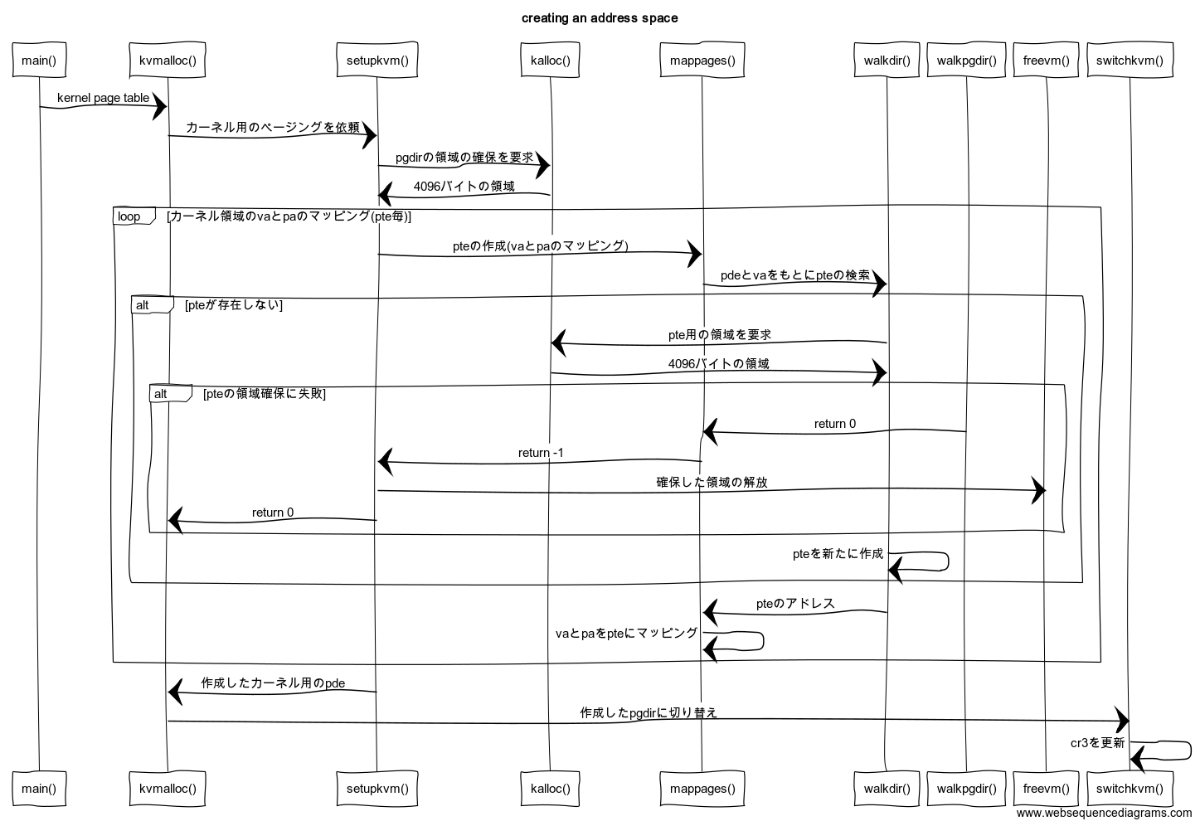
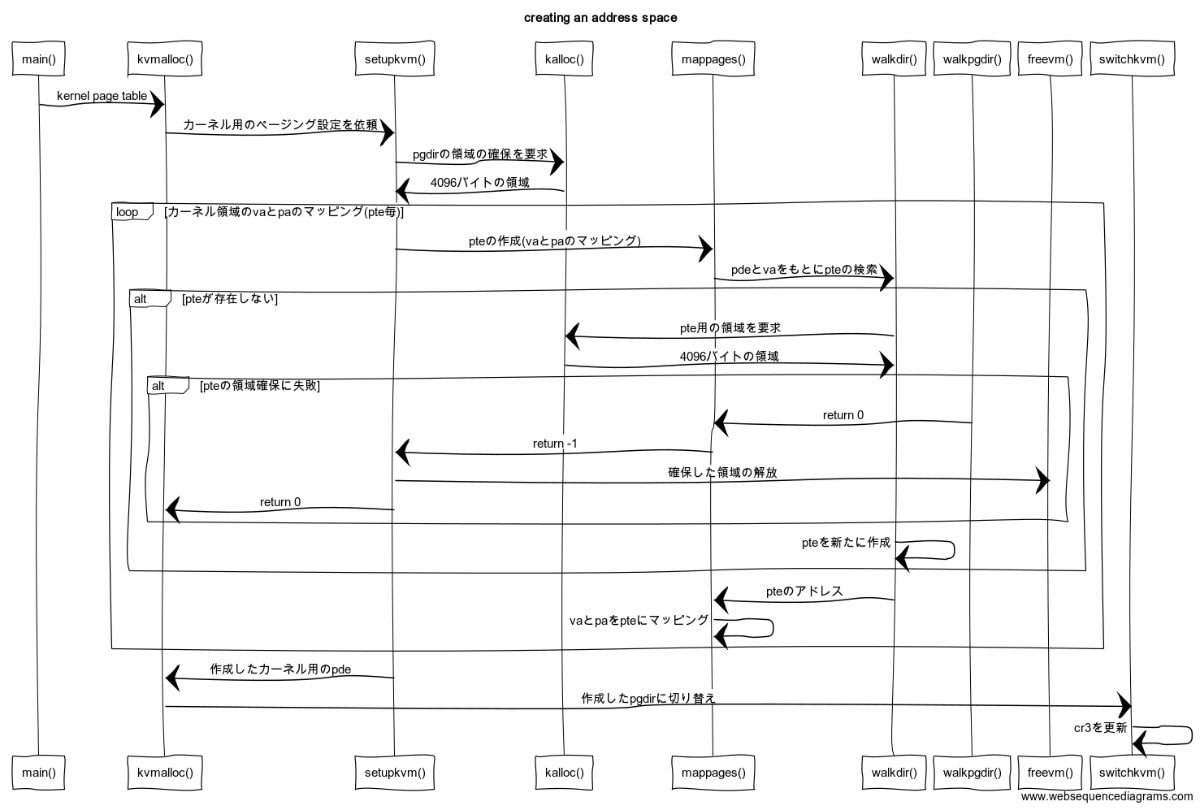
Update.

diff --git a/content/post/xv6_pagetable_1/index.md b/content/post/xv6_pagetable_1/index.md
@@ -1,10 +1,13 @@
 ---
 title: "詳解xv6 Page tables 1"
-date: 2019-03-04T15:45:23+09:00
-draft: true
+date: 2019-03-05T18:35:02+09:00
+tags : [xv6, os]
 ---
 
-# 略語説明
+[詳解xv6の目次]({{< ref "post/xv6_index">}})
+***
+
+# 単語説明
 - PA(Physical Address): 物理アドレス
 - VA(Virtual Address): 仮想アドレス
 
@@ -56,21 +59,48 @@ Page Directory Table         4MB*1024=4GB
 ```
 
 #  Code: creating an address space
-TODO: 軽い解説
+本章ではxv6が作るカーネルのアドレス空間、つまりページングの設定を行うコードの解説です。
+カーネルのアドレス空間のVAとPAは図のようにマッピングしていきます。  
+**本章の解説するコードの目的は図のマッピングを作ることです。**
 
-- Fig2.2のようなマッピングを作る
-- カーネル領域はどのプロセスにもある
+> {{% figure src="memorylayout.png" %}}
+Source: [commentary/textbook](https://pdos.csail.mit.edu/6.828/2018/xv6/book-rev11.pdf)
 
-#### シーケンス図
+どのプロセスにもカーネル用の仮想アドレス空間が設定されています。
+図のように1プロセスには4GBの仮想メモリ空間が割り当てられますが、
+KERNBASE~4GBまではカーネル用の仮想アドレス空間になっています。
+カーネル用のアドレス空間はVAとPAが必ず図のように固定でマッピングされます。
+
+### シーケンス図
 エラー処理等を省いたざっくりとしたシーケンスです。
 今見ている関数はどこから呼ばれるんだっけとなったときに見てもらえればと思います。
-{{% figure src="sequence.png" %}}
+{{% figure src="sequence_withoud_error_handling.png" %}}
 
-#### kvmalloc()
+### main()
+メイン関数
+
+- `main.c`
+
+    ```c
+    14 // Bootstrap processor starts running C code here.
+    15 // Allocate a real stack and switch to it, first
+    16 // doing some setup required for memory allocator to work.
+    17 int
+    18 main(void)
+    19 {
+    20   kinit1(end, P2V(4*1024*1024)); // phys page allocator
+    21   kvmalloc();      // kernel page table
+    ~~~
+    37   mpmain();        // finish this processor's setup
+    38 }
+    ```
+- L21: カーネル用ページテーブルの作成
+
+### kvmalloc()
 カーネル用のページテーブルを作成して作成したページテーブルに切り替える
 
 - 作成するのはページディレクトリエントリを1つのみ  
-- [setupkvm()]({{< ref "#setupkvm">}})はpdeを返すがそれを先頭アドレスとしたpdtとも見れる
+- [setupkvm()]({{< ref "#setupkvm">}})はPDEを返すがそれを先頭アドレスとしたPDTとも見れる
 - `vm.c`  
 
     ```c
@@ -98,12 +128,12 @@ TODO: 軽い解説
     152   lcr3(V2P(kpgdir));   // switch to the kernel page table
     153 }
     ```
-- L152: `cr3`を更新
-    - ページディレクトリの変更、つまりメモリ空間を変える
+- L152: `cr3`レジスタを更新
+    - PDTの変更、つまりメモリ空間を変える
     - `cr3` を別のページディレクトリに切り替える = プロセス空間の切り替えに相当
         - `cr3`が`pde[0]`を指せばおっけ
 
-#### V2P()
+### V2P()
 
 - `memlayout.h`
 
@@ -112,12 +142,12 @@ TODO: 軽い解説
     ~~~
     11 #define V2P(a) (((uint) (a)) - KERNBASE)
     ```
-- カーネルのメモリは決め打ちでわかる
-- > [![Image](https://gyazo.com/c3dbef2734ca29759e6b3c518a638cd5/thumb/1000)](https://gyazo.com/c3dbef2734ca29759e6b3c518a638cd5)
+- L11: カーネルの物理メモリは決め打ちでわかる
+- > {{% figure src="memorylayout_red.png" %}}
 Source: [commentary/textbook](https://pdos.csail.mit.edu/6.828/2018/xv6/book-rev11.pdf) + 赤色書き加え
 
-#### setupkvm()
-カーネルのページテーブルを作成(Fig2-2)
+### setupkvm()
+カーネルのPDEを作成
 
 - `vm.c`
 
@@ -158,6 +188,8 @@ Source: [commentary/textbook](https://pdos.csail.mit.edu/6.828/2018/xv6/book-rev
     136 }
     ```
  
+- L105 - 115: `kmap[]`はカーネル用のページングの設定
+    - メモリレイアウトの図(Fig2.2)と照らし合わせるとわかりやすい
 - L124 - 126: `pgdir`の領域を確保
     - 4096/32 = 128 pte
         - 4エントリしか使用しない(`kmap[]`より)
@@ -184,9 +216,9 @@ Source: [commentary/textbook](https://pdos.csail.mit.edu/6.828/2018/xv6/book-rev
             94   return (char*)r;
             95 }
         ```
-- L129 - 134: `pgdir`を`kmap[]`にあわせてカーネルのページテーブルを作っていく
+- L129 - 134: `pgdir`を`kmap[]`にあわせていく
 
-#### mappages()
+### mappages()
 仮想アドレスと物理アドレスを紐づける
 
 - `vm.c`
@@ -220,7 +252,7 @@ Source: [commentary/textbook](https://pdos.csail.mit.edu/6.828/2018/xv6/book-rev
 - 引数
     - `pgdir`: ページディレクトリテーブルの先頭アドレス
     - `va`: 仮想アドレス
-    - `size`: 確保するサイズ
+    - `size`: マッピングするサイズ
     - `pa`: 物理アドレス
     - `perm`: permission
 - L66 - 67: PGSIZEにそろえる
@@ -239,8 +271,8 @@ Source: [commentary/textbook](https://pdos.csail.mit.edu/6.828/2018/xv6/book-rev
         ```
 - L76 - 77: `PGSIZE`を増やして繰り返す
 
-#### walkpgdir() 
-`va`に対応するページエントリを見つける
+### walkpgdir() 
+`pgdir`の`va`に対応するPTEを見つける
 
 - `vm.c`
 
@@ -270,7 +302,7 @@ Source: [commentary/textbook](https://pdos.csail.mit.edu/6.828/2018/xv6/book-rev
     54   return &pgtab[PTX(va)];
     55 }
     ```
-- L41: ページディレクトリエントリをげっちゅ
+- L41: PDEを取得
     - `mmu.h`
 
         ```c
@@ -291,6 +323,9 @@ Source: [commentary/textbook](https://pdos.csail.mit.edu/6.828/2018/xv6/book-rev
         87 #define PTXSHIFT        12      // offset of PTX in a linear address
         88 #define PDXSHIFT        22      // offset of PDX in a linear address
         ```
+    - L67 - 71: 仮想アドレスの構成
+        - 前半10bitがPDEのインデックス
+        - 次の10bitがPTEのインデックス
     - `pgdir[PDX(va)]`: 該当するPDEを見つける
     - `pgtab[PTX(va)]`: 該当のPTEを見つける
 - L42 - 43: PDEが存在した場合
@@ -304,7 +339,9 @@ Source: [commentary/textbook](https://pdos.csail.mit.edu/6.828/2018/xv6/book-rev
         Source: [０から作るOS開発　ページングその１　ページとPTEとPDE](http://softwaretechnique.jp/OS_Development/kernel_development07.html)
 - L44 - 53: 引数の`alloc`が真ならば新たにページテーブルを作成し`pde`を更新
 
+### まとめ
+{{% figure src="sequence.png" %}}
+
 ---
 コメントや間違いなどがある場合は[Twitter](https://twitter.com/utam0k)に連絡してもらうか
 [Issue](https://github.com/utam0k/utam0k.github.io/issues/1)に書いていただくと助かります。
-また、[Pull Request](https://github.com/utam0k/utam0k.github.io/blob/source/content/post/xv6_pagetable_1/index.md)もお待ちしています。

diff --git a/content/post/xv6_intro/index.md b/content/post/xv6_intro/index.md
@@ -1,18 +1,58 @@
 ---
 title: "詳解xv6 はじめに"
-date: 2019-03-04T15:04:55+09:00
-draft: true
+date: 2019-03-05T18:35:01+09:00
+tags : [xv6, os]
 ---
+[詳解xv6の目次]({{< ref "post/xv6_index">}})
+***
 
 ### はじめに  
-xv6はMITが開発している現代版Unix V6です。  
-x86アーキテクチャで動作するようになっています。  
-お手元のLinuxで簡単に動作させれます。  
-本記事ではその詳細についてMITが公開している[commentary/textbook](https://pdos.csail.mit.edu/6.828/2018/xv6/book-rev11.pdf) 
-を元にソースコードレベルで解説していきます。
+xv6はMITが開発している現代版Unix V6です。
+x86アーキテクチャで動作するようになっています。
+お手元のPCで簡単に動作させれます。
 
-### 読み方  
-以下サンプルです。  
+本記事ではその詳細についてMITが公開している。
+[xv6, a simple, Unix-like teaching operating system](https://pdos.csail.mit.edu/6.828/2018/xv6/book-rev11.pdf)(以下 commentary/textbook)
+を元にソースコードレベルで解説していきます。
+そのため、基本的には[commentary/textbook](https://pdos.csail.mit.edu/6.828/2018/xv6/book-rev11.pdf)に書いてあることを
+要約したり説明を付け足したりした記事になります。
+
+筆者もOS初心者であり、OS入門するために半年前位からxv6のコードリーディングを始めました。
+しかし、やはり初心者には難しい面もありました。
+本記事は筆者がxv6のコードリーディングを始めた時にこういう解説記事があったらうれしかったなという思いで本記事を書いています。
+今からxv6のコードリーディングを始める人の助けになればと思います。
+
+間違った解説をしている可能性も十分にあるためその際は指摘した頂けると幸いです。
+また、筆者はLinux等の実際のOSに詳しいわけではありません。
+Linuxだとこんな風にやってるなどアドバイスを頂けると喜びます。
+コメントや間違いなどがある場合は[Twitter](https://twitter.com/utam0k)に連絡してもらうか
+[Issue](https://github.com/utam0k/utam0k.github.io/issues/1)に書いていただくと助かります。
+
+### xv6の特徴
+- Unix 6vがベース
+- OSの基本的なアイディアが詰まっている
+- ANSI Cで書かれている
+- x86
+- コード量が1万行ないくらい
+
+
+### 書くこと書かないこと
+#### 書くこと
+- xv6のコードの解説
+- x86の仕組み
+- OS特有の用語についての説明
+
+#### 書かないこと
+- なぜその機能がOSに必要なのか   
+ex) ページングはなぜ必要なのか
+- アセンブリやC言語のこと
+
+### 本記事の読み方  
+章のタイトルが日本語なのは本記事の独自解説です。
+英語タイトルの場合は[commentary/textbook](https://pdos.csail.mit.edu/6.828/2018/xv6/book-rev11.pdf)
+にも同じタイトル名があり、その章の解説になります。
+
+以下コード解説のサンプルです。  
 
 - `filename.c`  
 
@@ -31,4 +71,73 @@ x86アーキテクチャで動作するようになっています。
 `L行数`がソースコードの何行目のことかを指しており、右側に解説を書きます。
 `~~~`は省略を表します。
 
+### xv6の動かし方
+筆者はUbuntu 18.04とDebian GNU/Linux 9.4 (stretch)で動かしています。
+他のOSでも基本的には`gcc`と`qemu`があれば動かせれると思います。
+`Makefile`を見ると`Mac OS X`の記述もあるのでコメントアウトしてみるとできるかもしれません。
 
+#### 動かす
+[このサイト](https://gcallah.github.io/OperatingSystems/xv6Install.html)が参考になりそうです。
+
+1. 必要なツールのインストール
+
+    ```
+    $ sudo apt install git nasm build-essential qemu gdb
+    ```
+1. コードをもってくる
+
+    ```
+    $ git clone git://github.com/mit-pdos/xv6-public.git
+    $ cd xv6-public
+    ```
+
+1. Make
+一度動かすと`kill`コマンドで消すしかなさそうです。
+
+    ```
+    $ make qemu     # GUIありの起動
+    $ make qemu-nox # GUIなしの起動
+    ```
+
+#### デバッグ(GDB)
+1. 起動  
+
+    ```
+    $ make qemu-nox-gdb # Booting with gdbserver
+    ```
+1. アタッチ  
+xv6を動かした状態で別でシェルを起動させてgdbを起動させます。
+
+    ```
+    $ cd <path to xv6>
+    $ gdb
+    ```
+gdbで以下のコマンド実行します。
+
+    ```
+    (gdb) source .gdbinit
+    ```
+1. デバッグ  
+僕はよくgdbで変数の値などを見て動かしながらコードを読んでいました。  
+**gdbで試しながらするのは結構おすすめです。**  
+試しに`mkdir`のコマンドを少し覗いてみます。
+gdb側で以下のコマンドを実行します。
+
+    ```
+    (gdb) b sys_mkdir
+    (gdb) layout src
+    (gdb) continue
+    ```
+起動したxv6側で`mkdir`を実行します。
+
+    ```
+    $ mkdir test
+    ```
+
+    するとgdb側で反応があると成功です。
+1. xv6を落とす  
+gdb側でxv6を落とします。
+    
+    ```
+    (gdb) kill
+    ```

diff --git a/content/post/xv6_index/index.md b/content/post/xv6_index/index.md
@@ -1,19 +1,20 @@
 ---
 title: "教育版UNIX v6解説 ~詳解xv6~"
 subtitle: "詳解xv6 目次"
-date: 2019-03-04T15:04:55+09:00
-draft: true
+date: 2019-03-05T18:35:00+09:00
+tags : [xv6, os]
 ---
 
 ### はじめに
 本記事はMITのOSの授業で使われているxv6の解説をコードレベルでする記事です。  
-xv6はUNIX v6をベースとし、x86やC99で動くように再実装されたOSです。
+xv6はUNIX v6をベースとし、x86で動くようにANSI Cで再実装されたOSです。
 
 [もっとはじめに]({{<ref "post/xv6_intro">}})
 
-- 想定読者
 - xv6の特徴
+- 書くこと書かないこと
 - 本記事の読み方
+- xv6の動かし方、デバッグ方法
 
 ### 本編
 1. [Page tables 1]({{< ref "post/xv6_pagetable_1" >}})
@@ -49,4 +50,3 @@ xv6はUNIX v6をベースとし、x86やC99で動くように再実装されたO
 ---
 コメントや間違いなどがある場合は[Twitter](https://twitter.com/utam0k)に連絡してもらうか
 [Issue](https://github.com/utam0k/utam0k.github.io/issues/1)に書いていただくと助かります。
-また、[Pull Request](https://github.com/utam0k/utam0k.github.io/blob/source/content/post/xv6_index/index.md)もお待ちしています。
